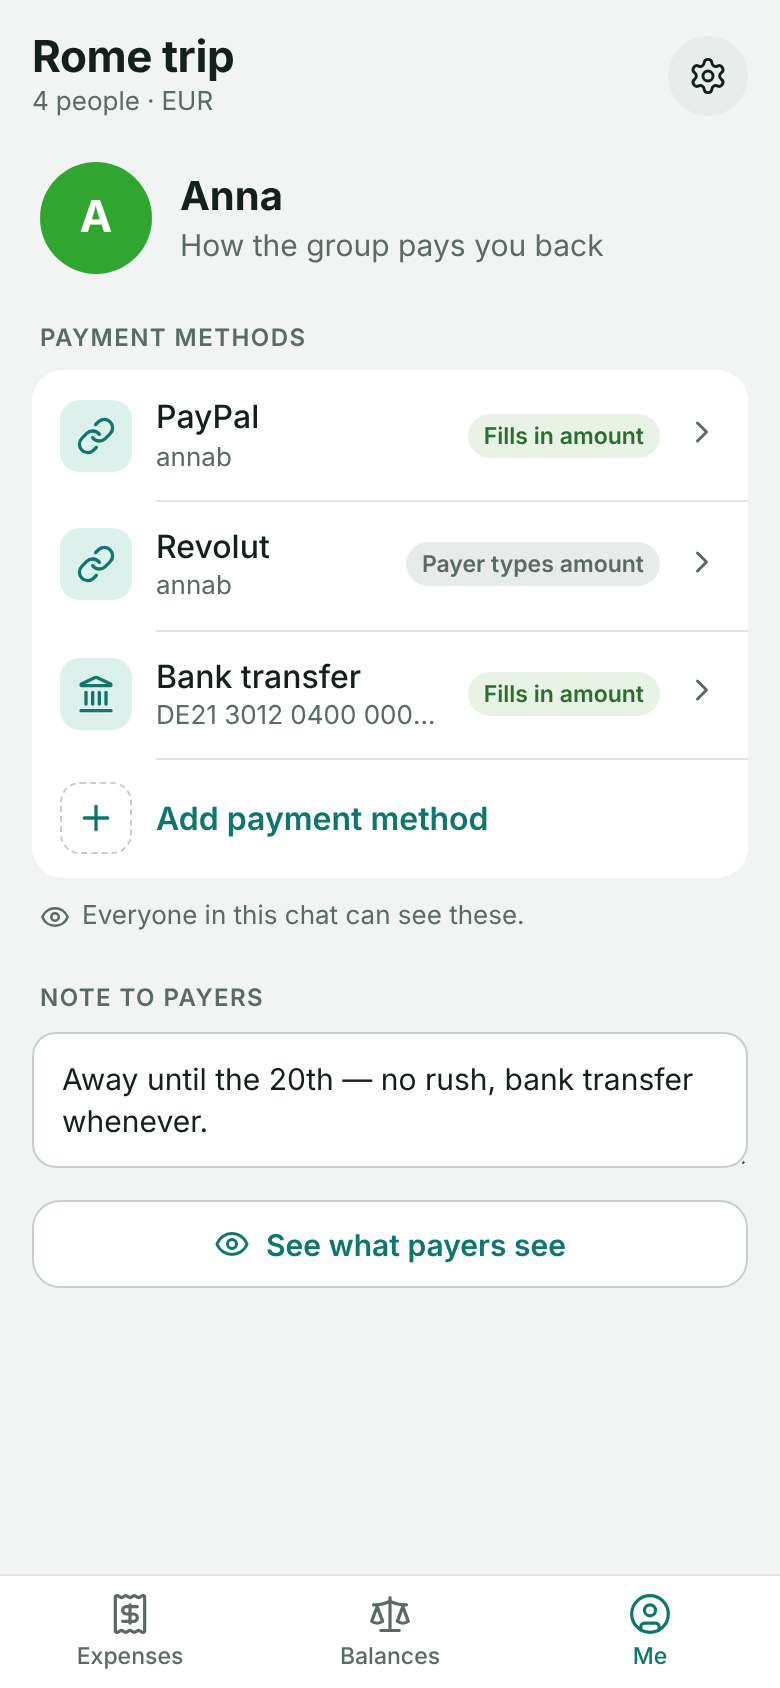
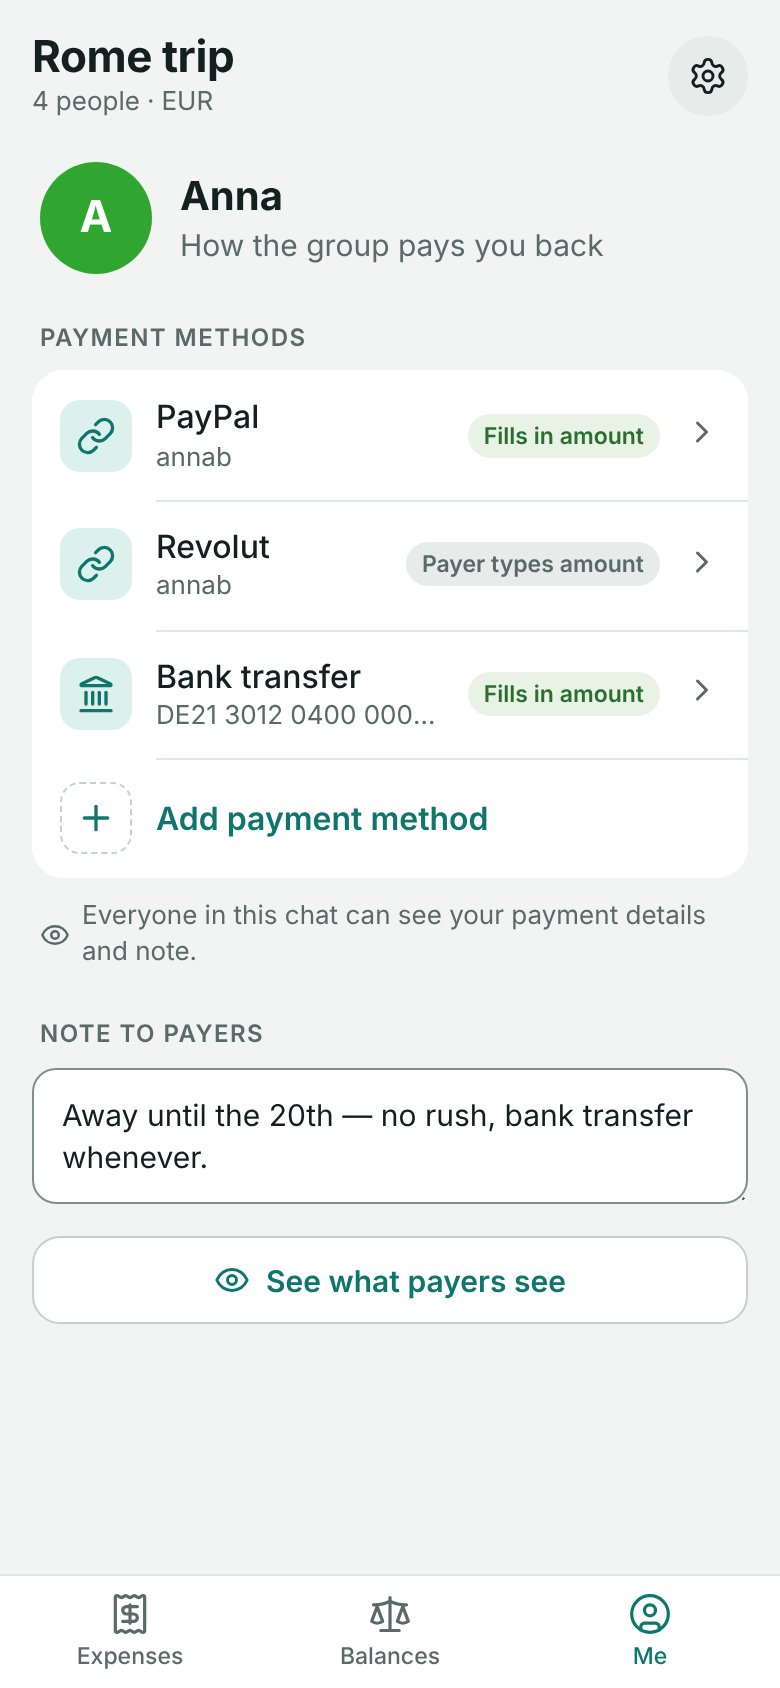
Address regression review; refresh README and website screenshots
Behaviour:
- The expense form fills in its defaults before it paints (layout effect),
  so a tap or keystroke in the first ~100ms after opening — a split mode, an
  armed Delete, an amount — can no longer be reset, and a reopened form never
  flashes the previous expense.
- The wizard's "Try it" box shows the filled-in link again, the one place to
  check a custom template's placeholders.
- "Add expense" comes before the list in keyboard and screen-reader order (it
  still floats bottom-right).
- "Export everything" says again that it includes everyone's payment details.
- A Me tab with only a note keeps the privacy line and the payer preview.

Looks:
- The add-method picker's option group has a visible border again.
- Unselected people in the expense form are outlined rows, and "not
  included" is no longer bold.
- At 320px: the balance bars give way to names below 360px, long amounts
  ("IDR 71,550,000.00") step down a size instead of being clipped, and the
  pay-up buttons stack instead of wrapping their labels.

Screenshots for the README and the landing page are regenerated; the pay-up
one is phone-height so the site's 9:19 frame shows the whole sheet, and the
site's alt text and blurbs describe the new screens.

diff --git a/docs/index.html b/docs/index.html
@@ -357,19 +357,19 @@
         <figure class="phone">
           <img
             src="screenshots/expenses.png"
-            alt="A trip's expenses grouped by day, each showing who paid, the total and your share."
+            alt="A trip's expenses: what the group spent and your share, then each day with its total, who paid, and your share of every item."
           />
         </figure>
         <figure class="phone">
           <img
             src="screenshots/balances.png"
-            alt="Each member's net position and the few transfers that settle the group."
+            alt="What you owe and one button to pay it, then everyone's net position as a bar, and the transfers left between the others."
           />
         </figure>
         <figure class="phone">
           <img
             src="screenshots/payup.png"
-            alt="Paying a debt: a note from the payee, then a PayPal link with its QR code."
+            alt="Paying a debt: the payee's note, a switcher between bank transfer, PayPal and bunq, and the bank details with a QR code and copy buttons."
           />
         </figure>
       </div>
@@ -541,14 +541,15 @@
             <figure class="phone">
               <img
                 src="screenshots/balances.png"
-                alt="Each member's net position, then suggested transfers."
+                alt="What you owe and one button to pay it, then everyone's net position as a bar."
               />
             </figure>
             <div>
               <h3>See who owes whom</h3>
               <p>
-                Everyone's net position at a glance, and a short list of
-                transfers that settles the whole group.
+                What you owe comes first, with one button to pay it. Below it,
+                everyone's net position at a glance and the few transfers that
+                settle the whole group.
               </p>
             </div>
           </div>
@@ -556,15 +557,16 @@
             <figure class="phone">
               <img
                 src="screenshots/payup.png"
-                alt="The pay-up sheet for one debt with a PayPal link and its QR code."
+                alt="The pay-up sheet for one debt, opened on the payee's preferred method: a bank transfer QR code and copyable details."
               />
             </figure>
             <div>
               <h3>Settle without typing an IBAN</h3>
               <p>
-                Tap a debt and pay: open the payee's PayPal or banking app with
-                the amount already filled in, scan a bank QR code, or copy the
-                details. Mark it paid and the chat hears about it.
+                Tap a debt and pay. It opens on the method the payee prefers:
+                scan a bank QR code, open PayPal or another app with the amount
+                already filled in, or copy the details. Mark it paid and the
+                chat hears about it.
               </p>
             </div>
           </div>

diff --git a/src/style/app.css b/src/style/app.css
@@ -626,6 +626,13 @@ select {
   line-height: 1.1;
 }
 
+/* A figure can't wrap, and "IDR 71,550,000.00" is 17 characters: past ~12 the
+   big amounts step down a size instead of running out of the card. */
+.hero-amount.long,
+.sheet-amount.long {
+  font-size: min(1.5rem, 7.5vw);
+}
+
 /* The headline when you are square: words, not a 42px zero. */
 .hero-title {
   margin: 0 0 2px;
@@ -666,10 +673,11 @@ select {
   height: 6px;
 }
 
-/* On the narrowest phones a shorter bar leaves the name column room. */
-@media (max-width: 399px) {
+/* On the narrowest phones the bar gives way to the name: the signed, coloured
+   amount still says which side each person is on. 360px and up keep it. */
+@media (max-width: 359px) {
   .position-bar {
-    width: 44px;
+    display: none;
   }
 }
 
@@ -804,8 +812,15 @@ select {
   border-color: var(--color-accent);
 }
 
+/* Unselected rows sit on the sheet's own colour, so they need an outline to
+   read as rows at all; "not included" is a note, not a figure. */
 .row-check:not(.selected) {
   color: var(--color-text-dim);
+  box-shadow: inset 0 0 0 1px var(--color-border);
+}
+
+.row-check:not(.selected) .row-amount {
+  font-weight: 400;
 }
 
 .row-check:not(.selected) .money {
@@ -1578,9 +1593,11 @@ p.field-suffix {
   background: var(--color-surface-2);
 }
 
+/* A real border, not an inset shadow: each option's own background would
+   paint over a shadow and leave the group with no edge at all. */
 .wizard-options {
   border-radius: 14px;
-  box-shadow: inset 0 0 0 1px var(--color-border);
+  border: 1px solid var(--color-border);
   overflow: hidden;
 }
 
@@ -1742,9 +1759,12 @@ p.field-suffix {
   border-top: 1px solid var(--color-border);
 }
 
+/* Side by side when both labels fit on one line each; otherwise each takes
+   its own row rather than wrapping its label onto three lines. */
 .sheet-actions > .btn {
-  flex: 1;
+  flex: 1 1 auto;
   min-height: 48px;
+  white-space: nowrap;
 }
 
 .sheet-actions > p {

diff --git a/src/ui/ProfileForm.tsx b/src/ui/ProfileForm.tsx
@@ -214,18 +214,18 @@ export function ProfileForm() {
           <span className="method-name">Add payment method</span>
         </Row>
       </div>
-      {nothingOffered ? (
+      {nothingOffered && (
         <p className="fine">
           None of your saved methods work for {currency} debts. Add one that
           does, or change the group currency.
         </p>
-      ) : (
-        rows.length > 0 && (
-          <p className="fine">
-            <Icon name="eye" size={15} />
-            Everyone in this chat can see these.
-          </p>
-        )
+      )}
+      {/* Payers see a note on its own too, so it counts as something shown. */}
+      {(rows.length > 0 || current.note) && (
+        <p className="fine">
+          <Icon name="eye" size={15} />
+          Everyone in this chat can see your payment details and note.
+        </p>
       )}
 
       {/* Always visible, whether or not any method is configured: this is
@@ -242,7 +242,7 @@ export function ProfileForm() {
         onBlur={() => save({ ...current, note: note.trim() || undefined })}
       />
 
-      {self && rows.length > 0 && (
+      {self && (rows.length > 0 || current.note) && (
         <TapButton
           className="btn btn-ghost btn-block"
           onActivate={() => setPreviewing(true)}

diff --git a/src/ui/ExpenseForm.tsx b/src/ui/ExpenseForm.tsx
@@ -2,7 +2,7 @@
 // Every amount here is integer cents; the only float-adjacent code is
 // Amount.tsx's own text parser, which this file never touches directly.
 import type { ComponentChildren, JSX } from "preact";
-import { useEffect, useRef, useState } from "preact/hooks";
+import { useLayoutEffect, useRef, useState } from "preact/hooks";
 import {
   addExpense,
   deleteExpense,
@@ -155,7 +155,11 @@ export function ExpenseForm({ open, onClose, expense }: ExpenseFormProps) {
   const [weights, setWeights] = useState<Record<MemberId, number>>({});
   const [exact, setExact] = useState<Record<MemberId, number>>({});
 
-  useEffect(() => {
+  // A layout effect, not a passive one: it runs before the sheet paints. A
+  // passive effect could land up to ~100ms later on a busy device, briefly
+  // showing the previous expense's values on reopen and resetting anything
+  // tapped or typed in that window (a split mode, an armed Delete, an amount).
+  useLayoutEffect(() => {
     if (!open) return;
     const allIds = membersRef.current.map((m) => m.id);
     setAmountCents(expense?.amountCents ?? 0);

diff --git a/src/ui/ExpenseList.tsx b/src/ui/ExpenseList.tsx
@@ -129,6 +129,19 @@ export function ExpenseList() {
 
   return (
     <section aria-label="Expenses" className="has-fab">
+      {/* First in the DOM so keyboard and screen-reader users reach it before
+          every row; it floats (position: fixed), so it still looks last. */}
+      <button
+        type="button"
+        className="fab"
+        onPointerUp={addBtn}
+        onClick={(e) => {
+          if (e.detail === 0) addBtn();
+        }}
+      >
+        <Icon name="plus" size={20} />
+        Add expense
+      </button>
       {days.length === 0 ? (
         <div className="empty">
           <SplitMark />
@@ -172,18 +185,6 @@ export function ExpenseList() {
           ))}
         </>
       )}
-
-      <button
-        type="button"
-        className="fab"
-        onPointerUp={addBtn}
-        onClick={(e) => {
-          if (e.detail === 0) addBtn();
-        }}
-      >
-        <Icon name="plus" size={20} />
-        Add expense
-      </button>
 
       <ExpenseDetail
         open={viewId !== null}

diff --git a/test/profile-preview.test.tsx b/test/profile-preview.test.tsx
@@ -126,6 +126,12 @@ describe("the method rows", () => {
     expect(show()).not.toContain("None of your saved methods");
   });
 
+  it("a note alone is something payers see: privacy line and preview stay", () => {
+    mount("EUR", { note: "Cash is fine" });
+    expect(show()).toContain("Everyone in this chat can see");
+    expect(buttonWith("See what payers see")).toBeDefined();
+  });
+
   it("counts an address-only crypto method as offered", () => {
     mount("EUR", {
       crypto: { label: "USDC on Base", address: "0xabc", network: "other" },

diff --git a/src/ui/Balances.tsx b/src/ui/Balances.tsx
@@ -126,7 +126,14 @@ export function Balances() {
         {mine.length > 0 ? (
           <>
             <p className="hero-label">{heroLabel}</p>
-            <p className="hero-amount money">{money(Math.abs(myCents))}</p>
+            <p
+              className={
+                "hero-amount money" +
+                (money(Math.abs(myCents)).length > 12 ? " long" : "")
+              }
+            >
+              {money(Math.abs(myCents))}
+            </p>
           </>
         ) : (
           <p className="hero-title">{heroLabel}</p>

diff --git a/src/ui/PaymentMethodWizard.tsx b/src/ui/PaymentMethodWizard.tsx
@@ -523,6 +523,9 @@ export function PaymentMethodWizard({
                   ariaLabel="Copy test link"
                 />
               </div>
+              {/* The filled-in link itself: the one place to check that a
+                  custom template's placeholders land where they should. */}
+              <p className="field-suffix">{testUrl}</p>
             </div>
           )}
           {valid && !testUrl && target.kind === "bank" && (

diff --git a/src/ui/PayUpSheet.tsx b/src/ui/PayUpSheet.tsx
@@ -273,7 +273,9 @@ export function PayUpSheet({
 
   return (
     <Sheet open={open} onClose={onClose} title={title}>
-      <p className="sheet-amount money">{amount}</p>
+      <p className={"sheet-amount money" + (amount.length > 12 ? " long" : "")}>
+        {amount}
+      </p>
 
       {/* The creditor's own instructions come first — they may override which
           method to use ("IBAN please, PayPal charges me a fee"), so showing

diff --git a/src/ui/GroupSettings.tsx b/src/ui/GroupSettings.tsx
@@ -274,7 +274,7 @@ export function GroupSettings({ open, onClose }: GroupSettingsProps) {
             <SettingRow
               icon="send"
               name="Export everything"
-              detail="The whole ledger, sent to this chat as one file"
+              detail="The whole ledger and everyone's payment details, sent to this chat as one file"
               onActivate={sendSnapshotToChat}
             />
           )}
